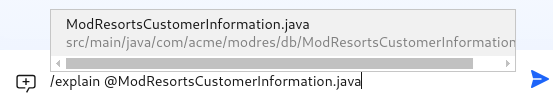
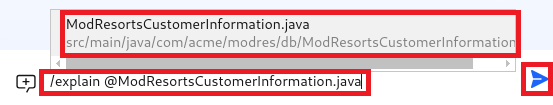
Updated

Changed region(s): [[0.0922, 0.0857, 1.0, 0.9143], [0.0615, 0.6571, 0.6763, 0.9143]]

diff --git a/README.md b/README.md
@@ -565,12 +565,12 @@ You will see something several messages
 #### Use the chat command to explain a class or method:
 Another way to get an explanation for a class is to use the chat window directly.
 
-1. Enter into the chat window the text **/explain @ModResortsCustomerInformation.java**
+1. Enter into the chat window the text **/explain @ModResortsCustomerInformation.java** and select the java class that is offered. 
 
     <kbd>![](./images/media/WCA_explainCode_CustomerInformation.png)</kbd>
 
 
-2. Press Enter and you should get an explanation like:
+2. Press the **blue arrow** and you should get an explanation like:
 
     <kbd>![WCA_explainCode_CustomerInformation-Result](./images/media/WCA_explainCode_CustomerInformation-Result.png)</kbd>
 
